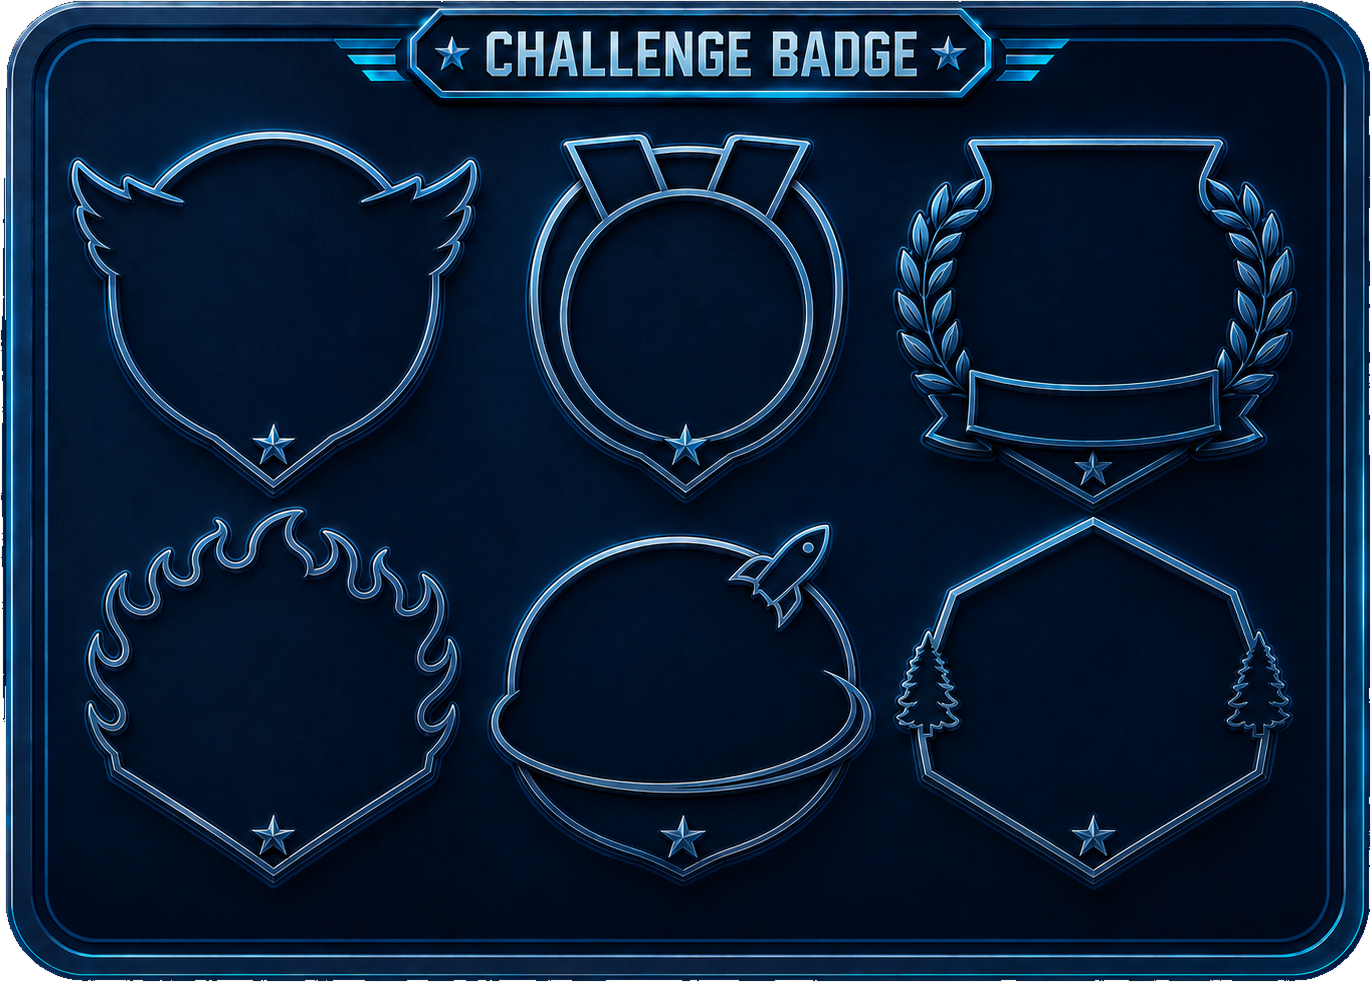
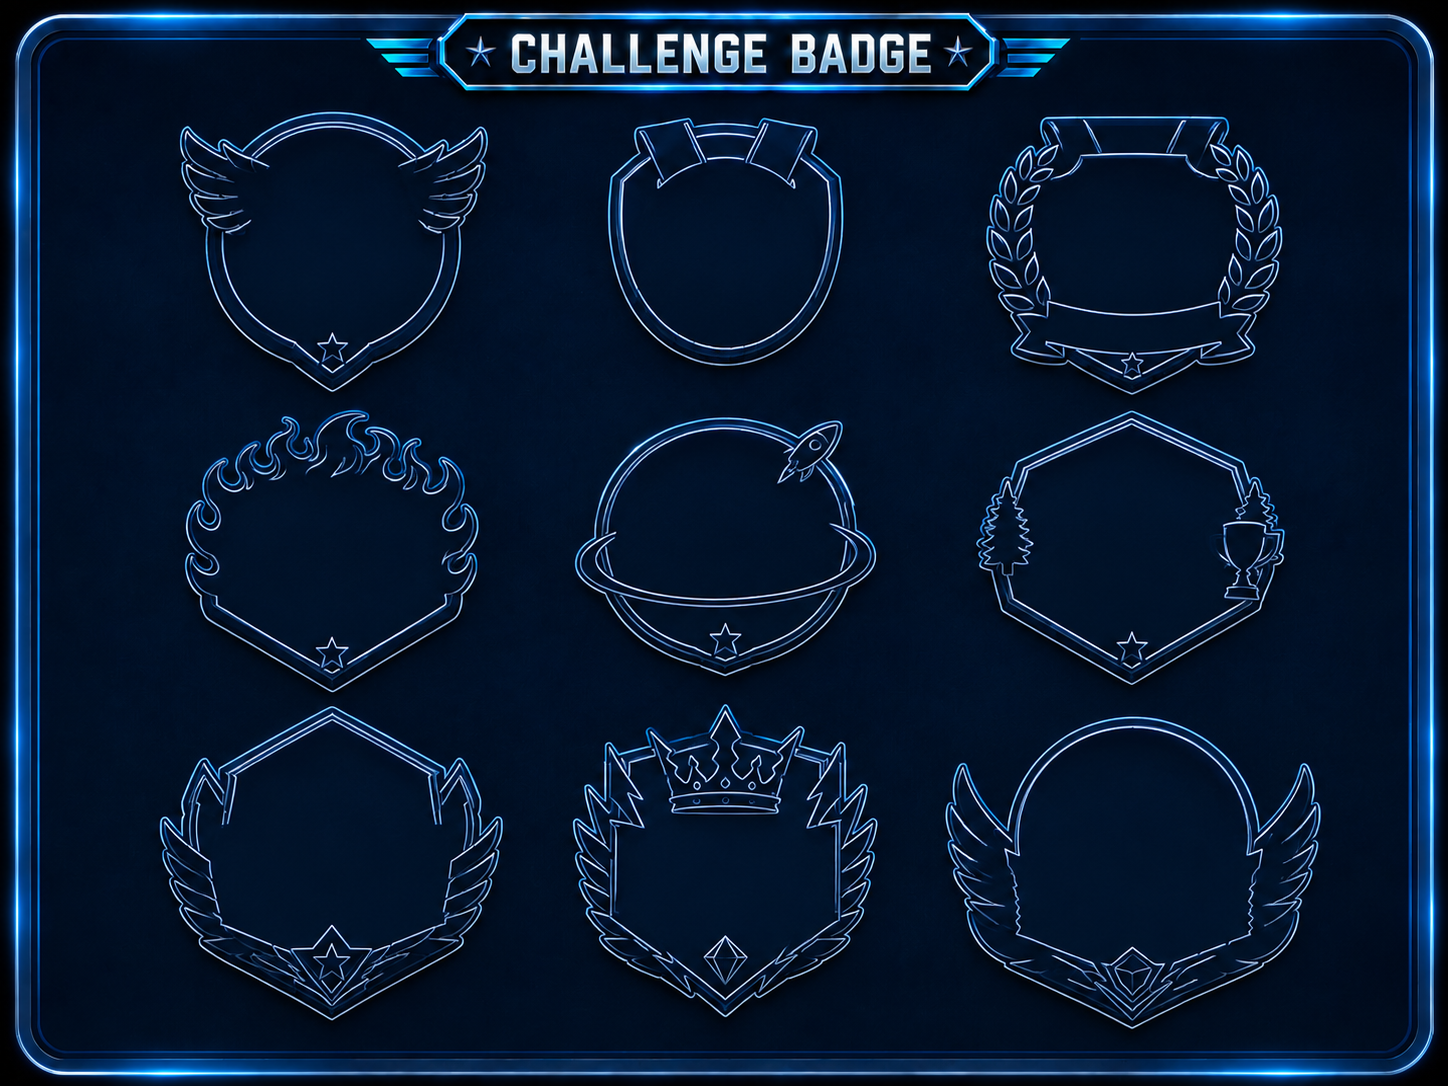
feat(account): refine challenge badge case layout

Changed region(s): [[0.0, 0.0, 1.0, 1.0]]

diff --git a/implementation/mobile/runiac_app/lib/features/account/presentation/widgets/account_challenge_badge_case.dart b/implementation/mobile/runiac_app/lib/features/account/presentation/widgets/account_challenge_badge_case.dart
@@ -5,19 +5,17 @@ import '../../../../core/assets/runiac_assets.dart';
 class AccountChallengeBadgeCase extends StatelessWidget {
   const AccountChallengeBadgeCase({super.key});
 
-  static const _caseAspectRatio = 1371 / 982;
-  static const _badgeSizeFraction = 0.255;
-
+  static const _caseAspectRatio = 1448 / 1086;
   static const _badgeSlots = [
-    _BadgeSlot(0.232, 0.251, RuniacAssets.challengeBadge10k),
-    _BadgeSlot(0.5, 0.251, RuniacAssets.challengeBadge20k),
-    _BadgeSlot(0.768, 0.251, RuniacAssets.challengeBadge42kMarathon),
-    _BadgeSlot(0.232, 0.544, RuniacAssets.challengeBadge100k),
-    _BadgeSlot(0.5, 0.544, RuniacAssets.challengeBadge200k),
-    _BadgeSlot(0.768, 0.544, RuniacAssets.challengeBadge250k),
-    _BadgeSlot(0.232, 0.83, RuniacAssets.challengeBadge300k),
-    _BadgeSlot(0.5, 0.83, RuniacAssets.challengeBadge500k),
-    _BadgeSlot(0.768, 0.83, RuniacAssets.challengeBadge1000k),
+    _BadgeSlot(0.23, 0.235, 0.245, RuniacAssets.challengeBadge10k),
+    _BadgeSlot(0.5, 0.235, 0.245, RuniacAssets.challengeBadge20k),
+    _BadgeSlot(0.78, 0.235, 0.24, RuniacAssets.challengeBadge42kMarathon),
+    _BadgeSlot(0.23, 0.51, 0.245, RuniacAssets.challengeBadge100k),
+    _BadgeSlot(0.5, 0.51, 0.245, RuniacAssets.challengeBadge200k),
+    _BadgeSlot(0.78, 0.50, 0.245, RuniacAssets.challengeBadge250k),
+    _BadgeSlot(0.226, 0.795, 0.265, RuniacAssets.challengeBadge300k),
+    _BadgeSlot(0.5, 0.794, 0.33, RuniacAssets.challengeBadge500k),
+    _BadgeSlot(0.785, 0.8, 0.28, RuniacAssets.challengeBadge1000k),
   ];
 
   @override
@@ -29,21 +27,29 @@ class AccountChallengeBadgeCase extends StatelessWidget {
         aspectRatio: _caseAspectRatio,
         child: LayoutBuilder(
           builder: (context, constraints) {
-            final badgeSize = constraints.maxWidth * _badgeSizeFraction;
             return Stack(
               children: [
                 Positioned.fill(
-                  child: Image.asset(
-                    RuniacAssets.challengeBadgeCase,
-                    fit: BoxFit.fill,
+                  child: ClipRRect(
+                    borderRadius: BorderRadius.circular(
+                      constraints.maxWidth * 0.035,
+                    ),
+                    child: Image.asset(
+                      RuniacAssets.challengeBadgeCase,
+                      fit: BoxFit.fill,
+                    ),
                   ),
                 ),
                 for (final slot in _badgeSlots)
                   Positioned(
-                    left: constraints.maxWidth * slot.centerX - badgeSize / 2,
-                    top: constraints.maxHeight * slot.centerY - badgeSize / 2,
-                    width: badgeSize,
-                    height: badgeSize,
+                    left:
+                        constraints.maxWidth * slot.centerX -
+                        constraints.maxWidth * slot.sizeFraction / 2,
+                    top:
+                        constraints.maxHeight * slot.centerY -
+                        constraints.maxWidth * slot.sizeFraction / 2,
+                    width: constraints.maxWidth * slot.sizeFraction,
+                    height: constraints.maxWidth * slot.sizeFraction,
                     child: ExcludeSemantics(
                       child: Image.asset(slot.assetPath, fit: BoxFit.contain),
                     ),
@@ -58,9 +64,15 @@ class AccountChallengeBadgeCase extends StatelessWidget {
 }
 
 class _BadgeSlot {
-  const _BadgeSlot(this.centerX, this.centerY, this.assetPath);
+  const _BadgeSlot(
+    this.centerX,
+    this.centerY,
+    this.sizeFraction,
+    this.assetPath,
+  );
 
   final double centerX;
   final double centerY;
+  final double sizeFraction;
   final String assetPath;
 }